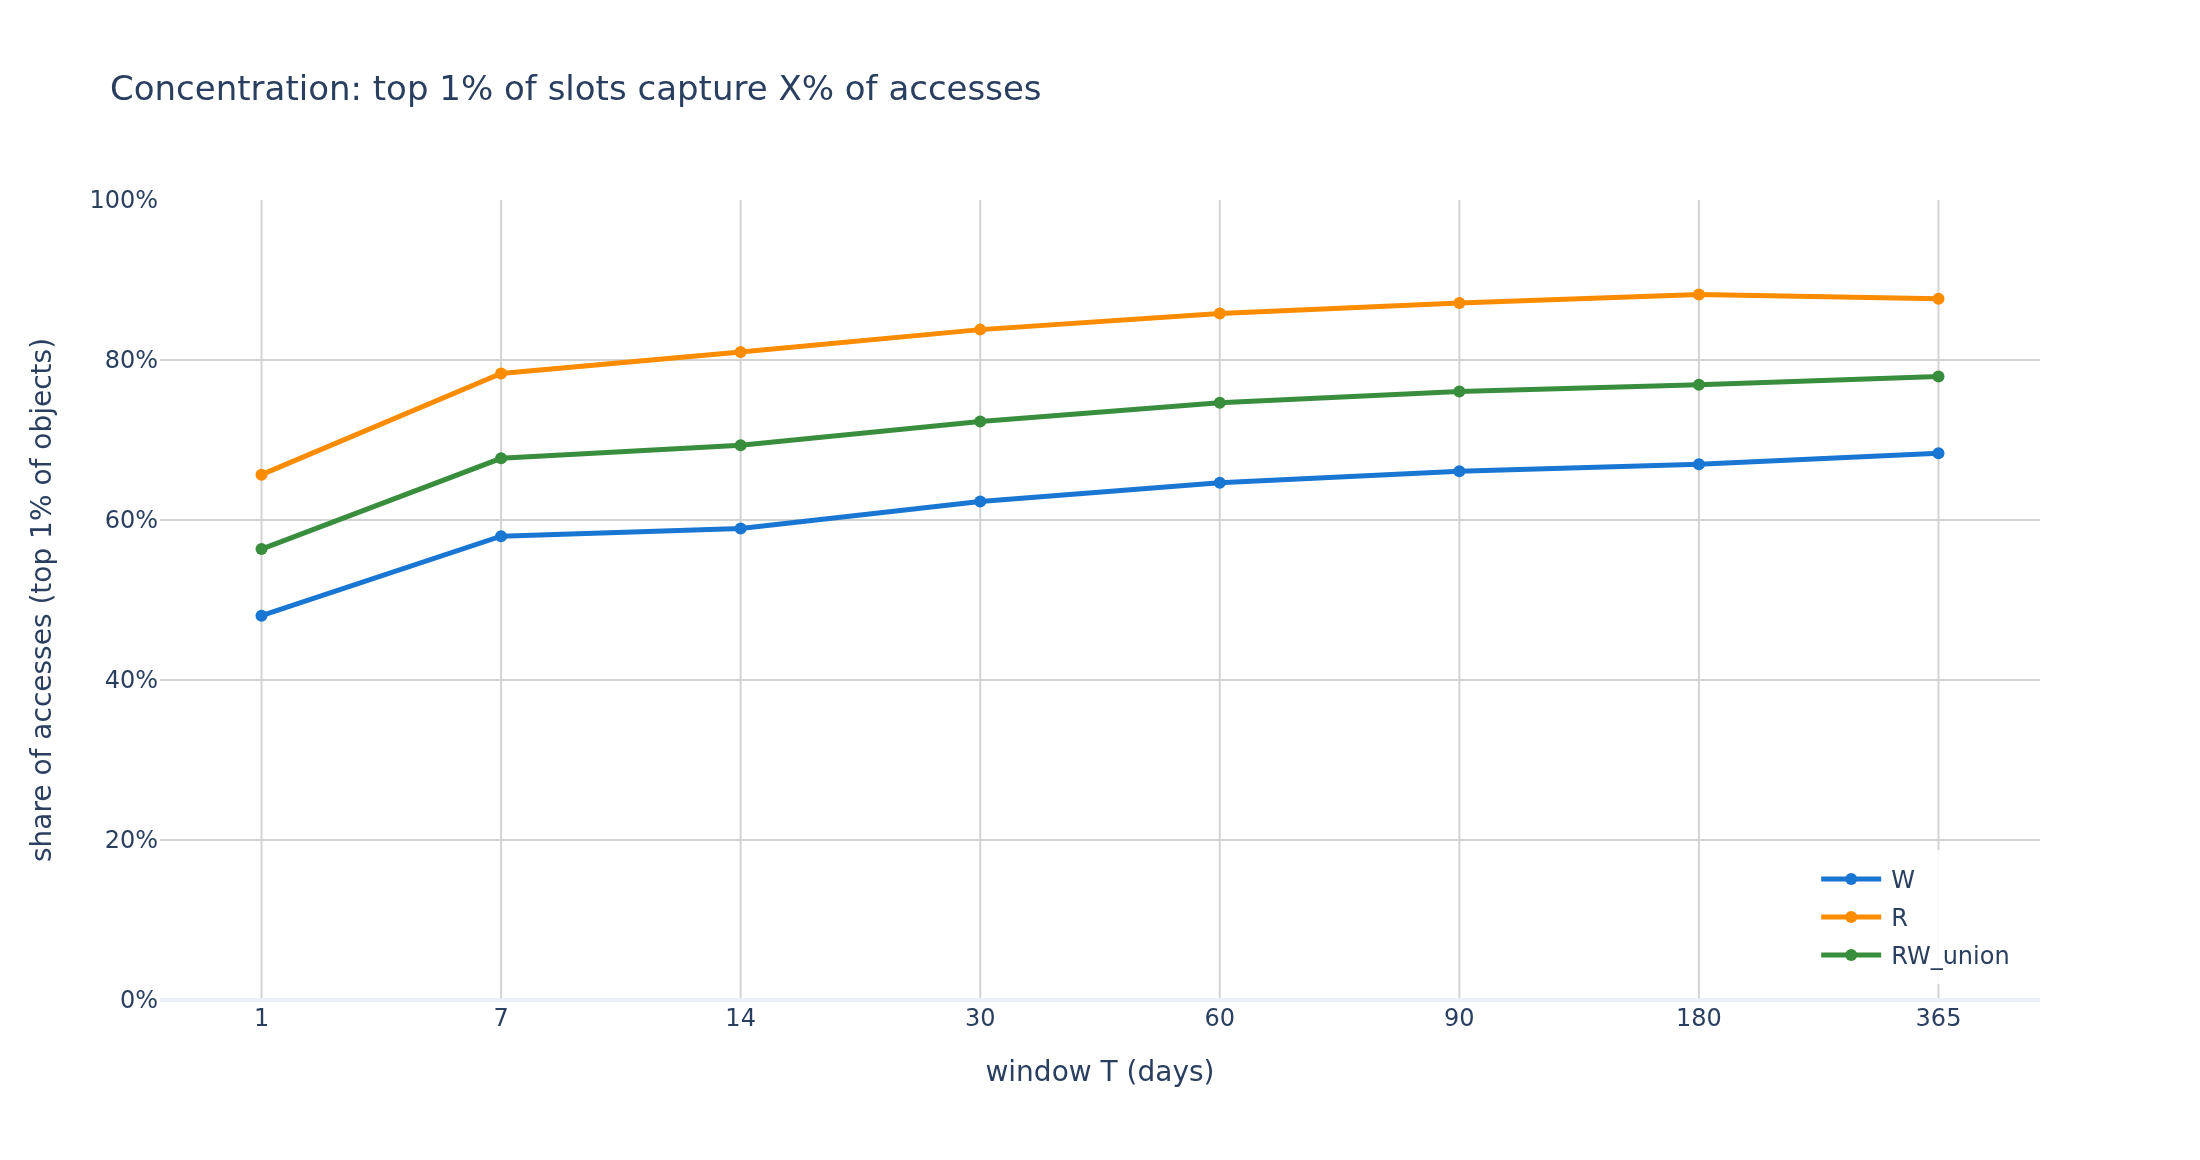
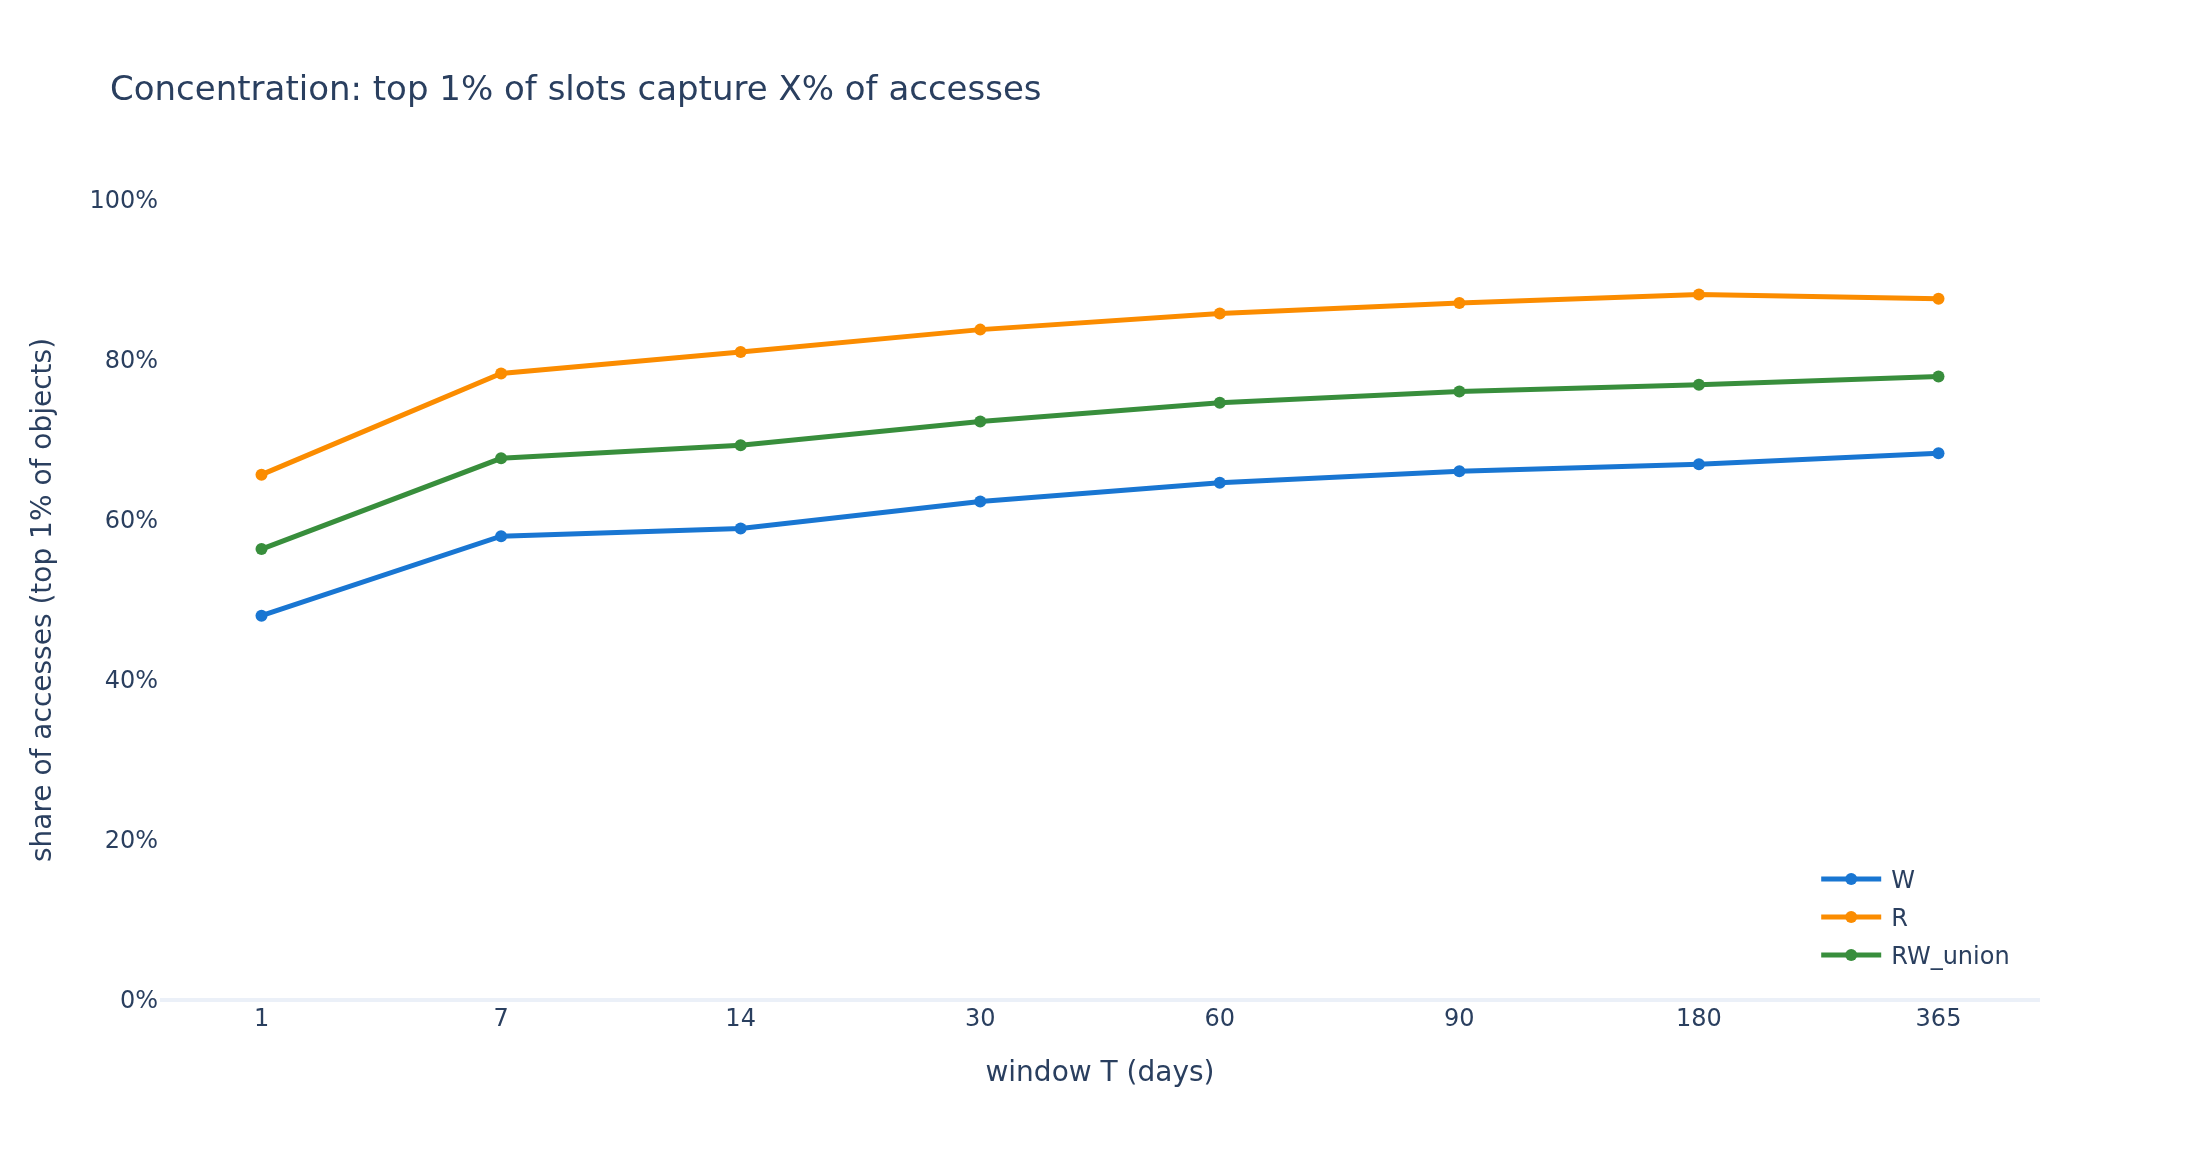
state_access v2: §6.1 coverage to sweep-mean over-time; gridless charts, distinct window colors
Drop the latest-anchor warm-update table + bar chart for a 4-window sweep-mean table and the
over-time chart. Remove gridlines from the q3 concentration and _base_fig over-time charts,
give the window lines distinct colors, and fix stale section refs in chart titles.

diff --git a/state_access/analysis_v2_sweep.py b/state_access/analysis_v2_sweep.py
@@ -21,7 +21,7 @@ from plotly.subplots import make_subplots
 from state_access.config_v2 import ANCHOR_BLOCK_V2, DATA_DIR_V2, SWEEP_WINDOWS
 from state_access.history_config import FORKS, block_to_date
 
-WINDOW_COLORS = {30: "#90CAF9", 90: "#42A5F5", 180: "#1976D2", 365: "#0D47A1"}
+WINDOW_COLORS = {30: "#1976D2", 90: "#FB8C00", 180: "#388E3C", 365: "#8E24AA"}
 
 # Every time-series chart shares this left bound so the panels line up. The 365d window
 # has no anchors before late 2023, so its panel carries a blank lead-in rather than its
@@ -134,8 +134,8 @@ def _base_fig(title: str, ytitle: str) -> go.Figure:
     fig = go.Figure()
     fig.update_layout(
         title=title,
-        xaxis=dict(title="anchor date", gridcolor="lightgray"),
-        yaxis=dict(title=ytitle, ticksuffix="%", gridcolor="lightgray",
+        xaxis=dict(title="anchor date", showgrid=False),
+        yaxis=dict(title=ytitle, ticksuffix="%", showgrid=False,
                    rangemode="tozero"),
         template="plotly_white", width=1100, height=560,
         legend=dict(x=0.01, y=0.99, bgcolor="rgba(255,255,255,0.85)"),
@@ -294,11 +294,11 @@ def render_all(df: pd.DataFrame) -> None:
 
     charts.append(("sweep_concentration.png", _concentration_over_time_fig(df)))
 
-    fig = _base_fig("Warm-update coverage over time (§7)", "% of update events warm")
+    fig = _base_fig("Warm-update coverage over time (§6.1)", "% of update events warm")
     _add_window_traces(fig, df, lambda s: s.upd_pct_warm, "warm")
     charts.append(("sweep_update_coverage.png", fig))
 
-    fig = _base_fig("First-op = nonzero read over time (§8 policy-bad set)",
+    fig = _base_fig("First-op = nonzero read over time (§6.2)",
                     "% of R∪W objects")
     _add_window_traces(fig, df, lambda s:
                        100 * s.sfo_first_is_nonzero_read / s.sfo_total_slots, "slots")
@@ -307,7 +307,7 @@ def render_all(df: pd.DataFrame) -> None:
                        "accounts", dash="dash")
     charts.append(("sweep_first_op.png", fig))
 
-    fig = _base_fig("R-only accounts non-empty share over time (§8)",
+    fig = _base_fig("R-only accounts non-empty share over time (§6.2)",
                     "% of R-only accounts")
     _add_window_traces(fig, df, lambda s:
                        100 * s.res_nonempty_accounts / s.res_total_r.where(s.res_total_r != 0),

diff --git a/state_access/analysis_v2.py b/state_access/analysis_v2.py
@@ -286,9 +286,9 @@ def _plot_concentration(q3: pd.DataFrame, object_type: str, which: Literal["top_
     label = "top 1%" if which == "top_1pct_share" else "top 10%"
     fig.update_layout(
         title=f"Concentration: {label} of {object_type}s capture X% of accesses",
-        xaxis=dict(title="window T (days)", type="category", gridcolor="lightgray"),
+        xaxis=dict(title="window T (days)", type="category", showgrid=False),
         yaxis=dict(title=f"share of accesses ({label} of objects)", ticksuffix="%",
-                   gridcolor="lightgray", range=[0, 100]),
+                   showgrid=False, range=[0, 100]),
         template="plotly_white", width=1100, height=580,
         legend=dict(x=0.99, y=0.02, xanchor="right", bgcolor="rgba(255,255,255,0.85)"),
     )

diff --git a/state_access/REPORT_v2.md b/state_access/REPORT_v2.md
@@ -300,7 +300,6 @@ gradually, more on the account side than the slot side.
 For each access set and window, the share of accesses captured by the top 1% of objects.
 Accesses are per-(tx, object) events (§3).
 
-TODO: remove the grid lines
 ![Concentration top-1%, slots](data/v2/q3_concentration_top1_slot.png)
 ![Concentration top-1%, accounts](data/v2/q3_concentration_top1_account.png)
 
@@ -375,47 +374,31 @@ For each window, classify every update event as warm or cold:
 So a slot's first in-window create-or-update may be cold, and every later update on it is
 warm. The exact per-slot rule is in Appendix A.
 
-#### Results
+#### Coverage
 
-TODO: is this chart at the latest anchor? we want over time only
+Each value is the mean over the weekly post-Merge sweep, one per window.
 
-| T (days) | total updates | warm | cold | % warm |
-|---:|---:|---:|---:|---:|
-| 1   |     3,827,500 |     3,277,106 |     550,394 | **85.62%** |
-| 7   |    28,158,628 |    25,937,983 |   2,220,645 | **92.11%** |
-| 14  |    55,135,247 |    51,051,775 |   4,083,472 | **92.59%** |
-| 30  |   125,684,703 |   117,983,724 |   7,700,979 | **93.87%** |
-| 60  |   262,053,193 |   251,043,962 |  11,009,231 | **95.80%** |
-| 90  |   402,058,353 |   387,899,906 |  14,158,447 | **96.48%** |
-| 180 |   788,431,719 |   765,249,545 |  23,182,174 | **97.06%** |
-| 365 | 1,424,321,470 | 1,389,975,882 |  34,345,588 | **97.59%** |
-
-![Slot update coverage, warm vs cold](data/v2/slot_update_coverage.png)
-
-A naive check against a static past-window set gives only **84.8% at T=30d**, a ~9pp
-underestimate of the per-event **93.9%**. The gap is intra-window promotion: slots first
-written inside the window, then hit again. Three readings.
-
-**The Active tier covers update gas well.** At T=30d, **94%** of update SSTOREs keep the
-cheap Active price, 97% at T=90d. The Inactive premium hits only ~3–6% of updates.
-
-**The benefit saturates fast.** T=1d to 30d buys +8pp of coverage, T=30d to 365d only
-another +3.7pp. Stretching the window past ~30d does little for update gas.
-
-**Cold updates are first-touch awakenings of dormant state.** 34.3M slots at T=365d, the
-tail reactivated after a year cold. A slot has at most one cold update in a window, its
-first warming.
-
-#### Coverage over time
-
-TODO: fix the chart, remove grid lines, use proper colors.
+| T (days) | mean total updates | mean % warm |
+|---:|---:|---:|
+| 30  |    85,279,598 | **94.1%** |
+| 90  |   253,857,845 | **95.7%** |
+| 180 |   500,752,413 | **96.7%** |
+| 365 |   996,027,189 | **97.7%** |
 
 ![Warm-update coverage over time](data/v2/sweep_update_coverage.png)
 
-Warm-update coverage is flat and high at every window across the timeline. T=30 stays in a
-90–97% band, T=90 ~94–97%, T=180 ~96–97%, T=365 ~97–98%. It rises with window width and
-barely moves over 3.5 years. The headline 94% at T=30d is representative of the whole
-post-Merge era, not a lucky anchor.
+**The Active tier covers update gas well.** ~94% of update SSTOREs at T=30d keep the cheap
+Active price, ~96% at T=90d, so the Inactive premium hits only ~3–6% of updates. A naive
+check against a static past-window set undercounts this by ~9pp, judging a slot re-written
+in the window cold every time and missing intra-window promotion.
+
+**The benefit saturates fast.** Coverage climbs from ~94% at T=30d to ~98% at T=365d, only
++4pp for a 12× window. Stretching past ~30d does little for update gas.
+
+**Coverage is flat and high across the timeline.** T=30 stays in a 90–97% band, T=90
+~94–97%, T=180 ~96–97%, T=365 ~97–98%, barely moving over 3.5 years, so the headline ~94% at
+T=30d is representative, not a lucky anchor. Cold updates are first-touch awakenings of
+dormant state, ~23M slots at T=365d reactivated after a year.
 
 ### 6.2 Read-side period bump
 
